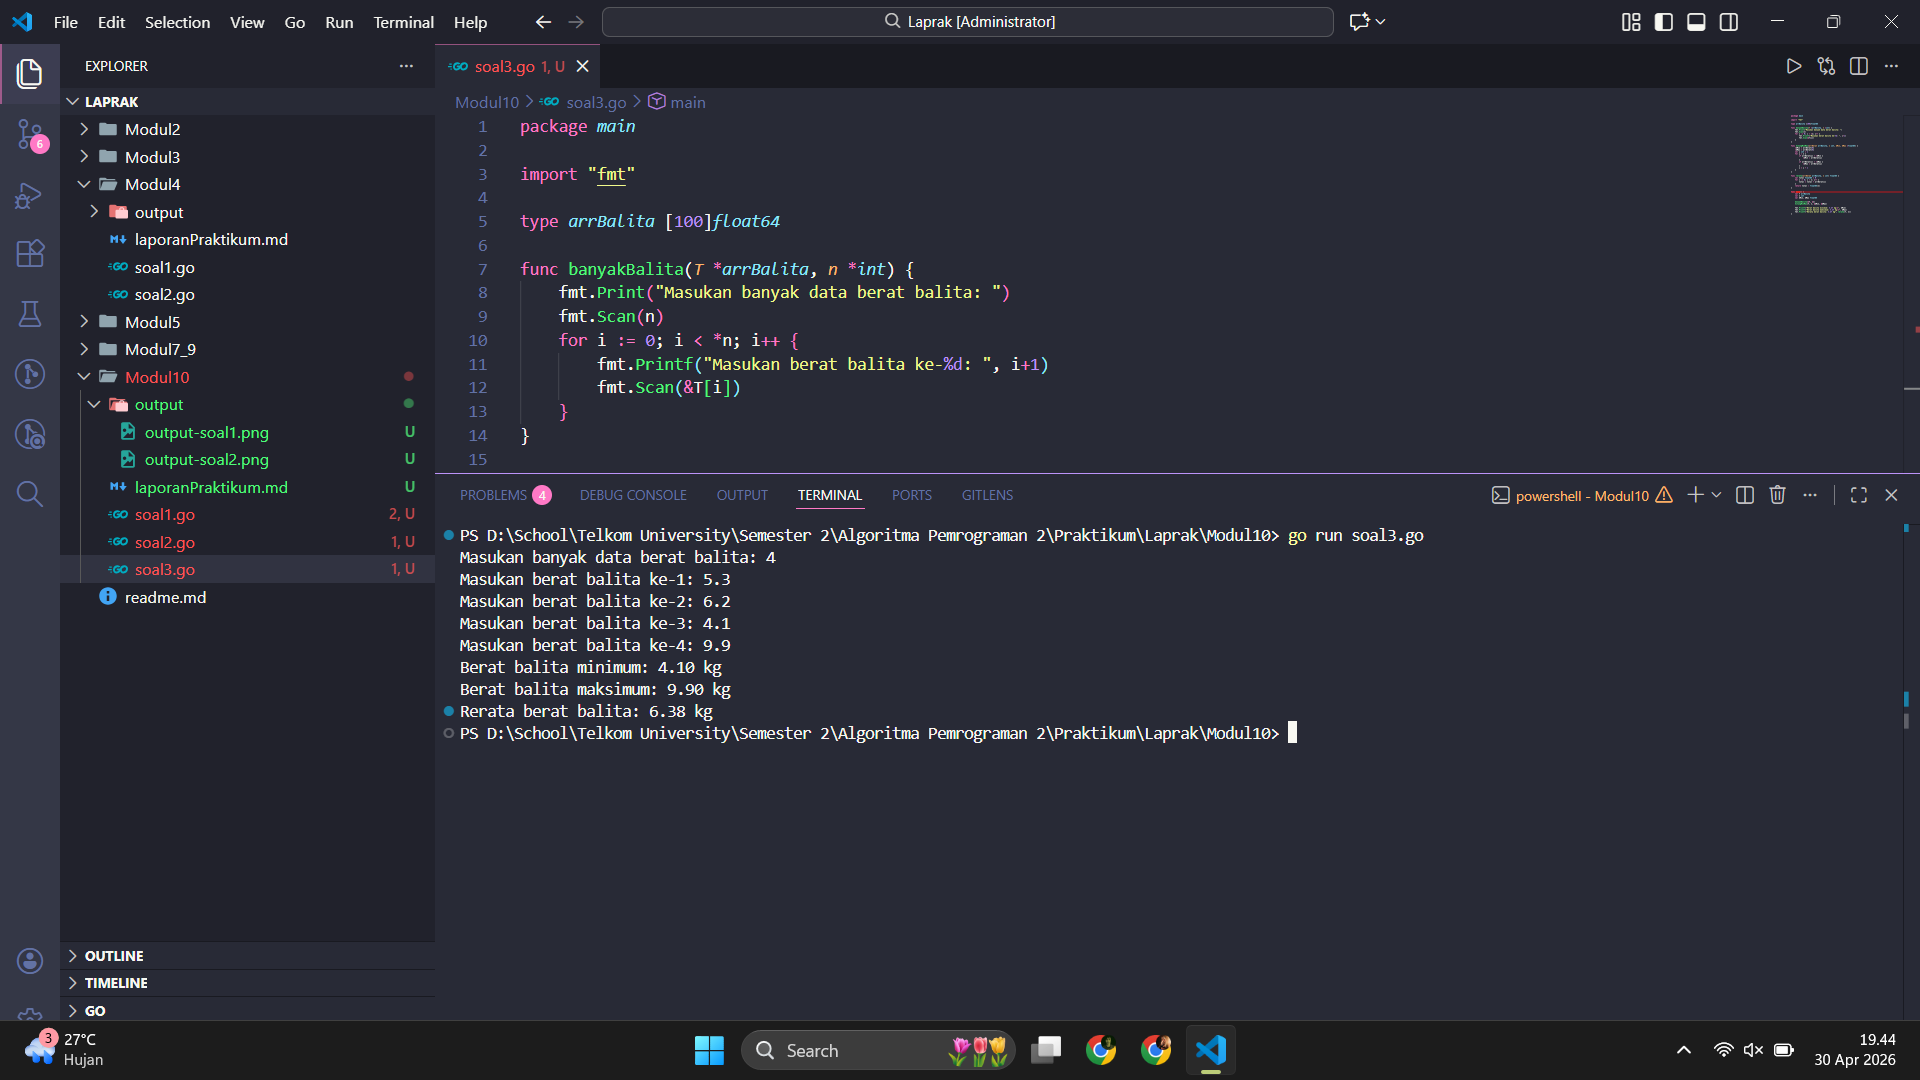
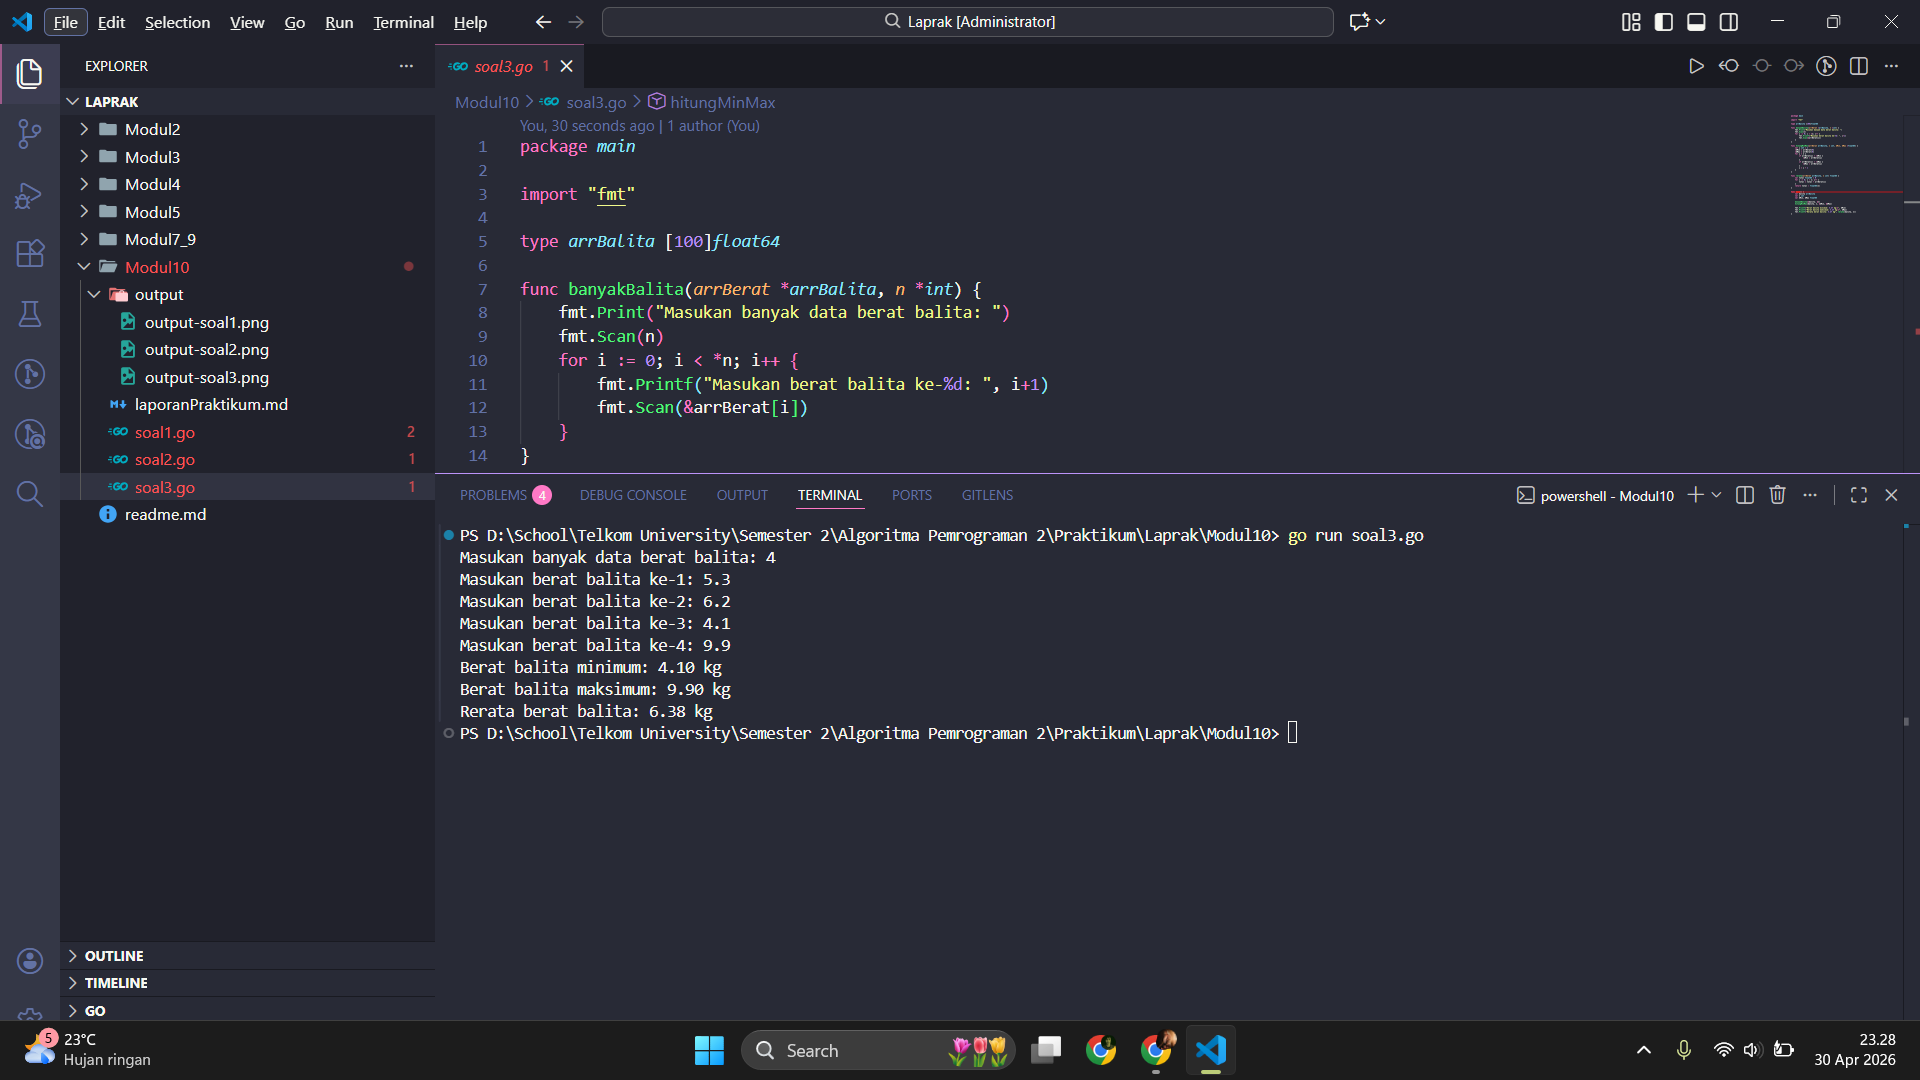
fixing output soal3 & laprak

diff --git a/Modul10/laporanPraktikum.md b/Modul10/laporanPraktikum.md
@@ -1,4 +1,4 @@
-# <h1 align="center">Laporan Praktikum Modul 4 - Soal Latihan Modul 4 </h1>
+# <h1 align="center">Laporan Praktikum Modul 10 - Soal Latihan Modul 10 </h1>
 
 <p align="center">Aqilla Rachel Rabbani - 109082500199</p>
 
@@ -74,7 +74,7 @@ func main() {
 
 ##### Penjelasan
 
-Program ini adalah program untuk mencari nilai minimum dan maksimum dari array anak_kelinci. Berikut penjeleasan yang lebih lanjut: 
+Program ini adalah program untuk mencari nilai minimum dan maksimum dari array anak_kelinci. Berikut penjelasan yang lebih lanjut: 
 
 <ul>
     <li>Tipe array <strong>anak_kelinci</strong>
@@ -346,7 +346,7 @@ Program ini adalah program untuk mencatat berat balita, tiap berat dimasukkan ke
     </li>
     <li><strong>Di dalam func main()</strong>
         <ol>
-            <li>Program memiliki variabel balita dengan tipe data arrBalita, yang berarti balita adalah array untuk menyimpan banyaknya balita.</li>
+            <li>Program memiliki variabel balita dengan tipe data arrBalita, yang berarti balita adalah array untuk menyimpan banyaknya berat balita.</li>
             <li>Program memiliki variabel n dengan tipe data integer.</li>
             <li>Program memiliki variabel bMin (berat minimum/paling kecil) dan bMax (berat maksimum/paling besar) dengan tipe data float64.</li>
             <li>Program memanggil prosedur banyakBalita dengan parameter aktual &balita dan &n.</li>
@@ -372,8 +372,8 @@ Program ini adalah program untuk mencatat berat balita, tiap berat dimasukkan ke
                 <br/>Prosedur ini adalah prosedur untuk menghitung elemen terkecil dan terbesar dari array arrBerat. prosedur ini memiliki parameter pass by value yaitu arrBerat dengan tipe data arrBalita, dan n dengan tipe data integer, serta parameter pass by reference yaitu bMin dan bMax dengan tipe data float64. Parameter pass by reference diakses menggunakan simbol bintang (*) karena merupakan pointer ke tipe datanya. Di dalam prosedur ini terdapat:
                 <ol>
                     <li>Variabel j dengan tipe data integer dan diberi value 1.</li>
-                    <li>Variabel bMin yang diberi value array ke 0 dari arrBerat.</li>
-                    <li>Variabel bMax yang diberi value array ke 0 dari arrBerat.</li>
+                    <li>Nilai yang ditunjuk pointer bMin bMin diberi value array ke 0 dari arrBerat.</li>
+                    <li>Nilai yang ditunjuk pointer bMin bMax diberi value array ke 0 dari arrBerat.</li>
                     <li>Perulangan for dengan kondisi j lebih kecil dari n</li>
                     <li>Di dalam perulangan tersebut ada if pertama dengan kondisi jika ada elemen di arrBerat[j] yang lebih kecil dari variabel bMin maka value dari variabel bMin adalah elemen arrBerat[j] yang paling kecil tersebut. Ada juga if kedua dengan kondisi jika ada elemen di arrBerat[j] yang lebih besar dari variabel bMax maka value dari variabel bMax adalah elemen arrBerat[j] yang paling besar tersebut. Baris terakhir pada kode for ini adalah value dari variabel j adalah variabel j ditambah 1.</li>
                 </ol>
